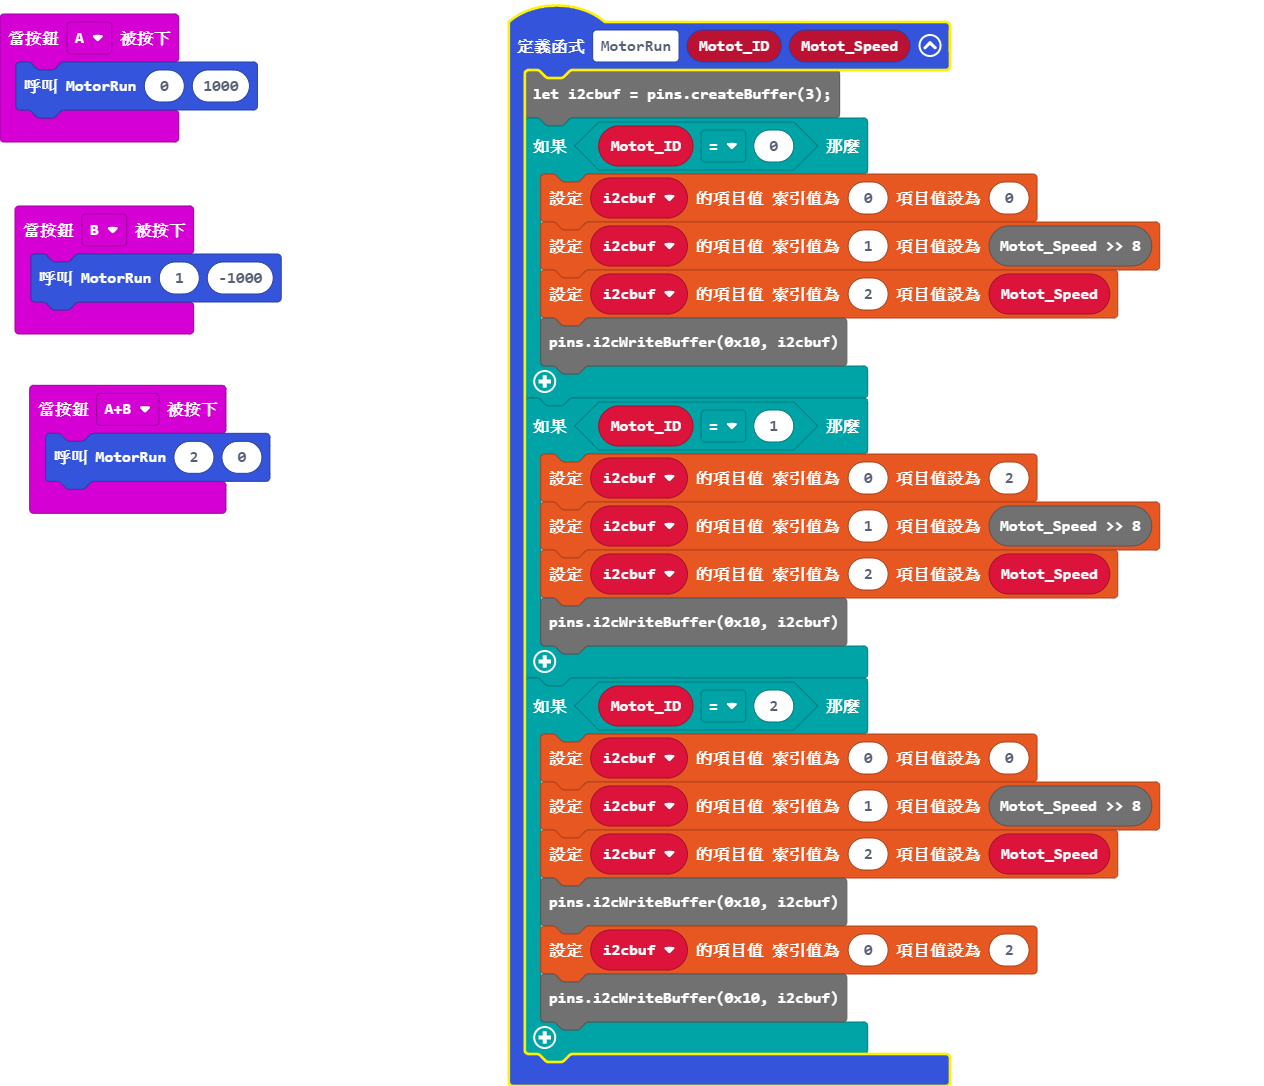
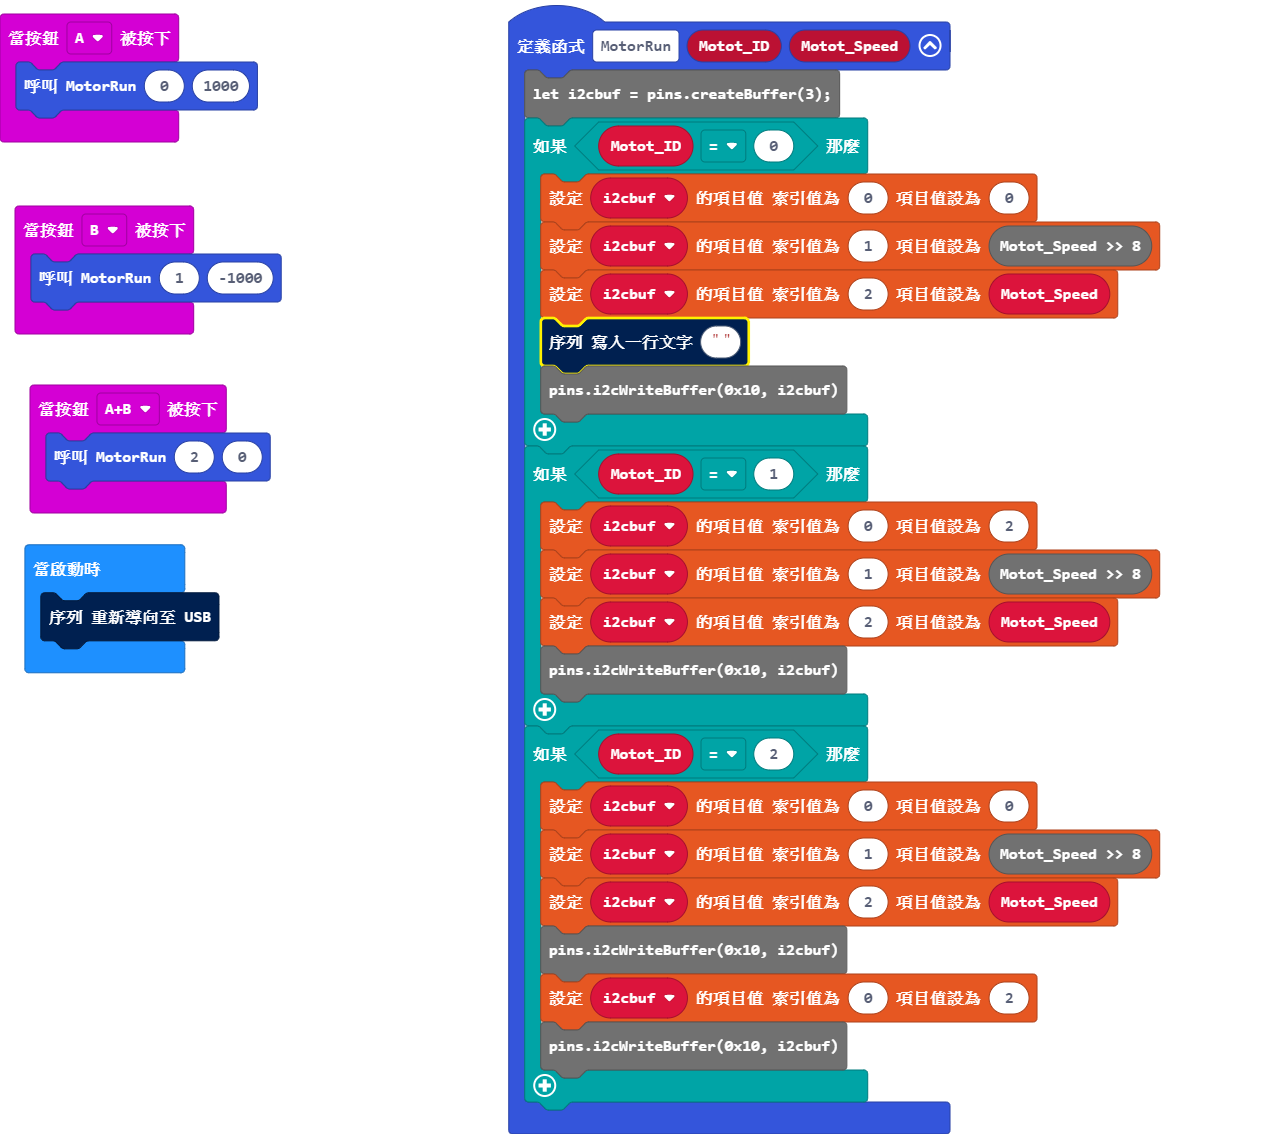
Update main.blocks, main.ts

diff --git a/main.ts b/main.ts
@@ -13,20 +13,25 @@ if (Motot_ID == 0) {
         i2cbuf[0] = 0
         i2cbuf[1] = Motot_Speed >> 8
         i2cbuf[2] = Motot_Speed
+        serial.writeNumbers(i2cbuf)
         pins.i2cWriteBuffer(0x10, i2cbuf)
     }
     if (Motot_ID == 1) {
         i2cbuf[0] = 2
         i2cbuf[1] = Motot_Speed >> 8
         i2cbuf[2] = Motot_Speed
+        serial.writeNumbers(i2cbuf)
         pins.i2cWriteBuffer(0x10, i2cbuf)
     }
     if (Motot_ID == 2) {
         i2cbuf[0] = 0
         i2cbuf[1] = Motot_Speed >> 8
         i2cbuf[2] = Motot_Speed
+        serial.writeNumbers(i2cbuf)
         pins.i2cWriteBuffer(0x10, i2cbuf)
         i2cbuf[0] = 2
+        serial.writeNumbers(i2cbuf)
         pins.i2cWriteBuffer(0x10, i2cbuf)
     }
 }
+serial.redirectToUSB()
